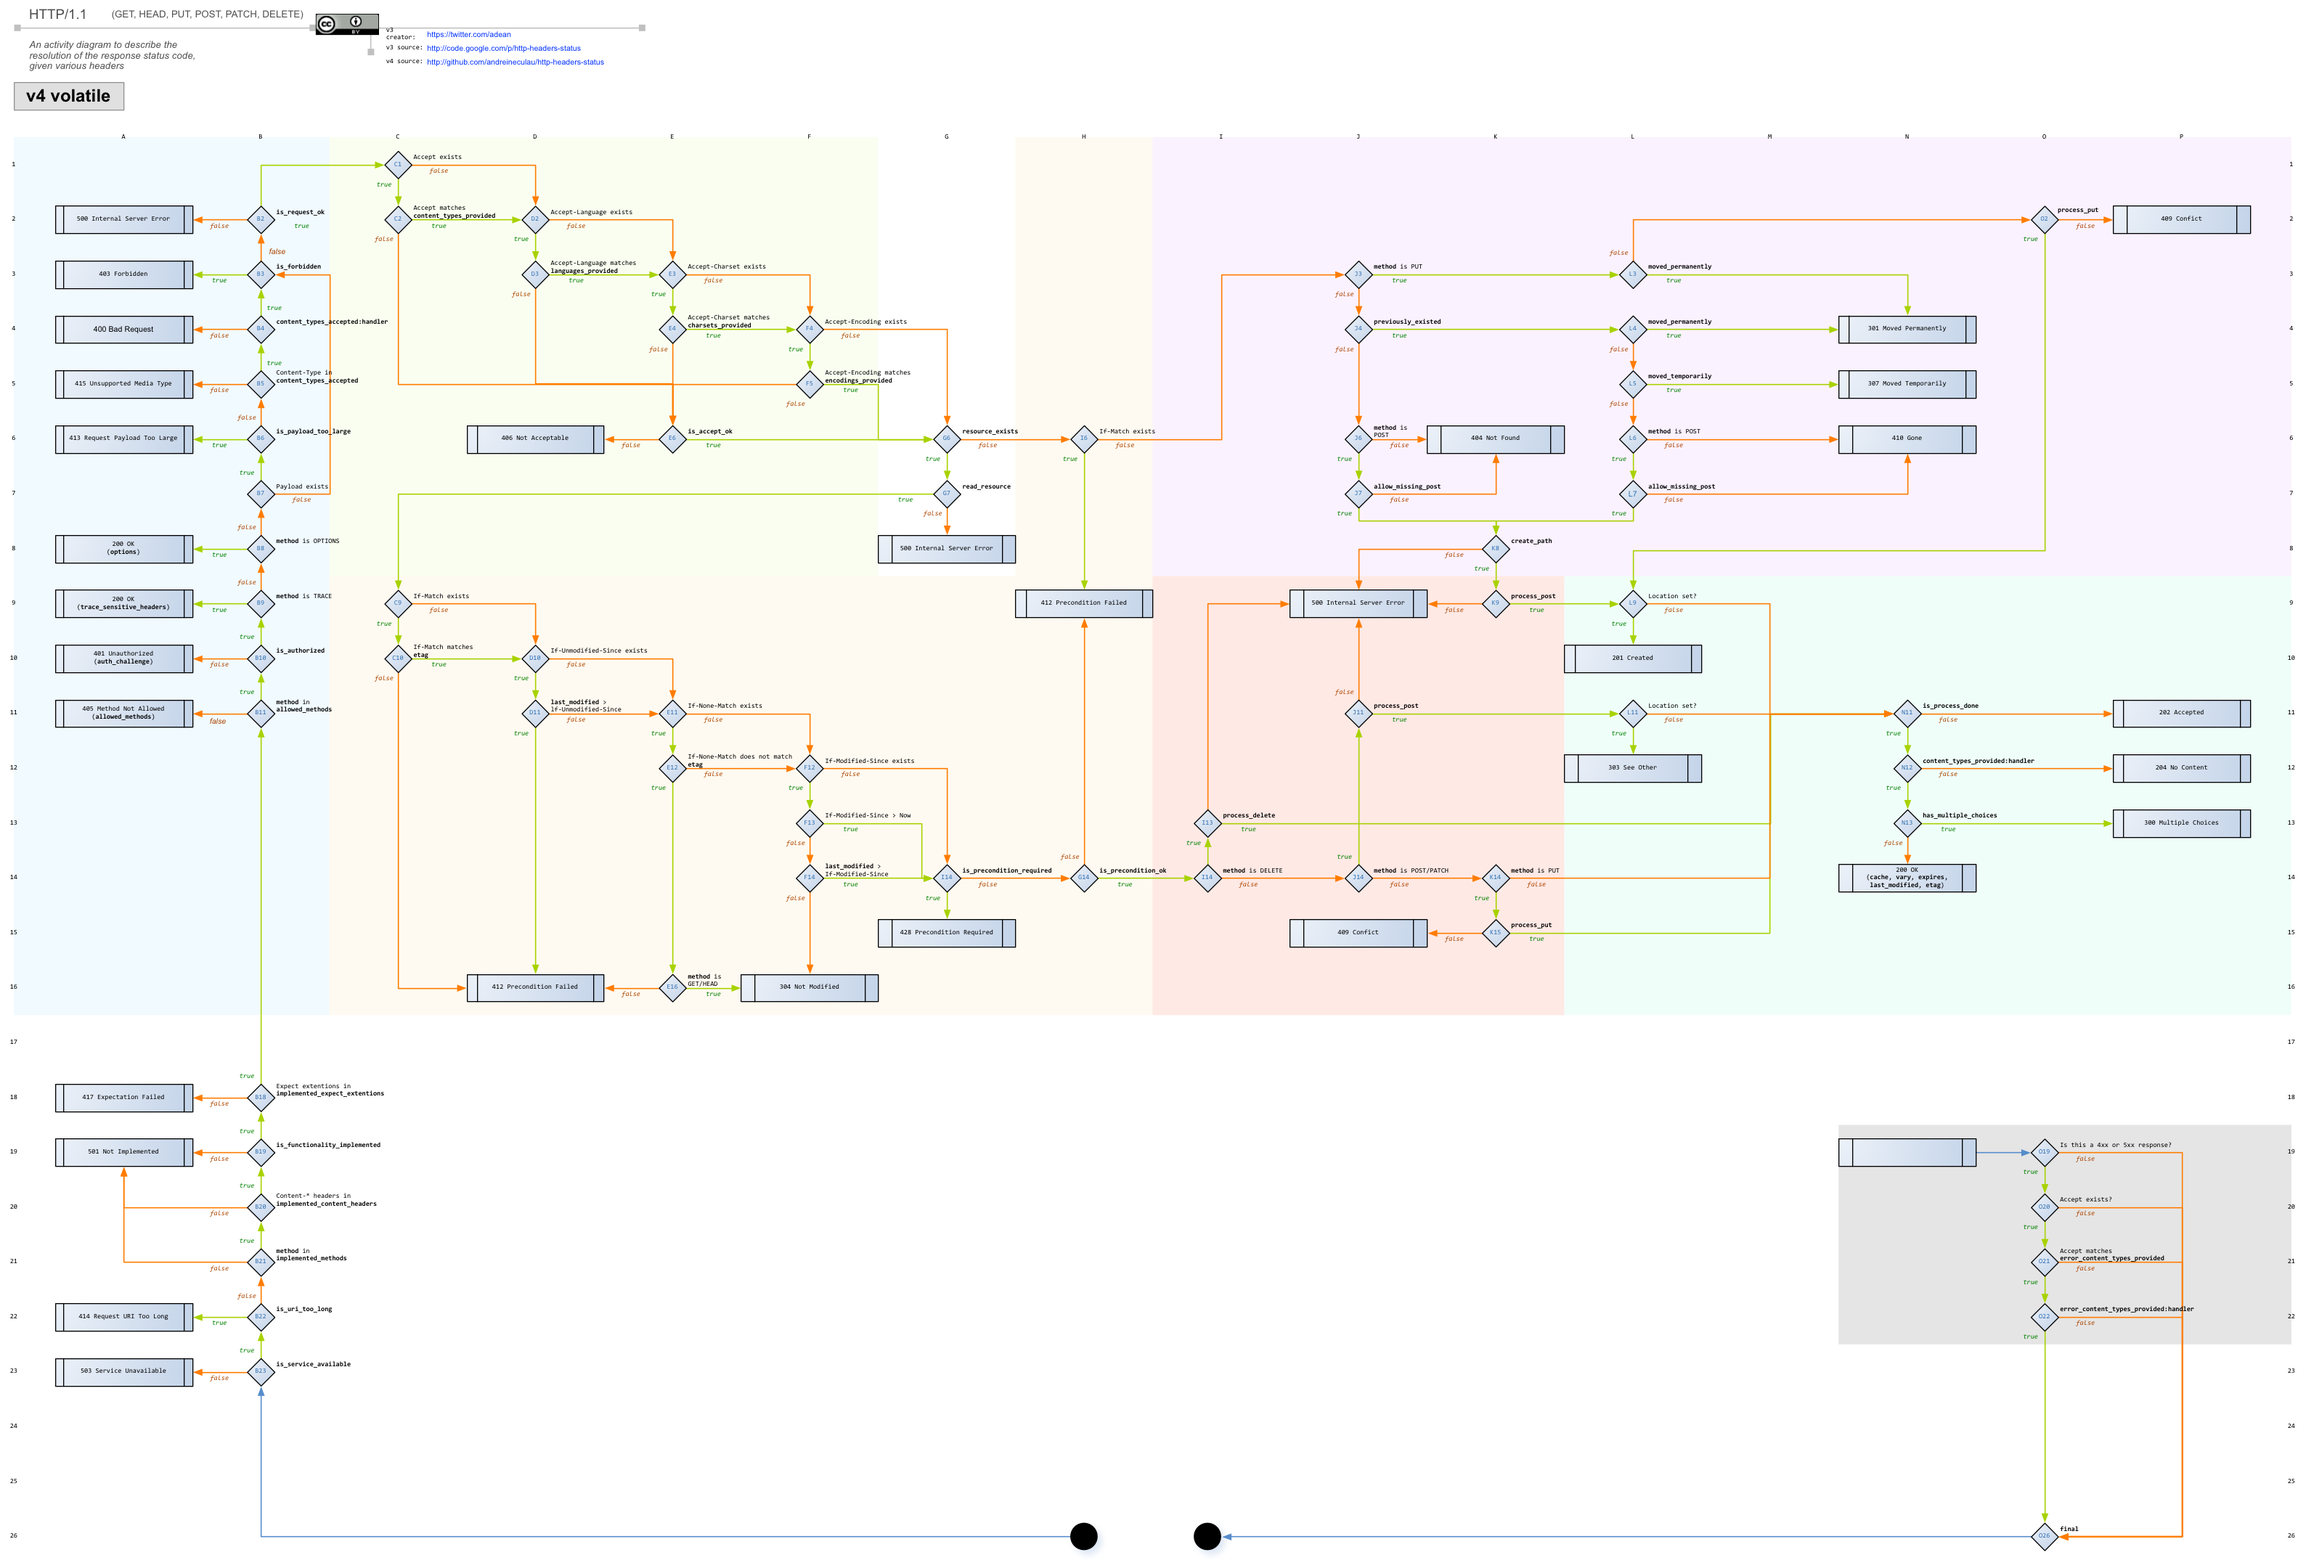
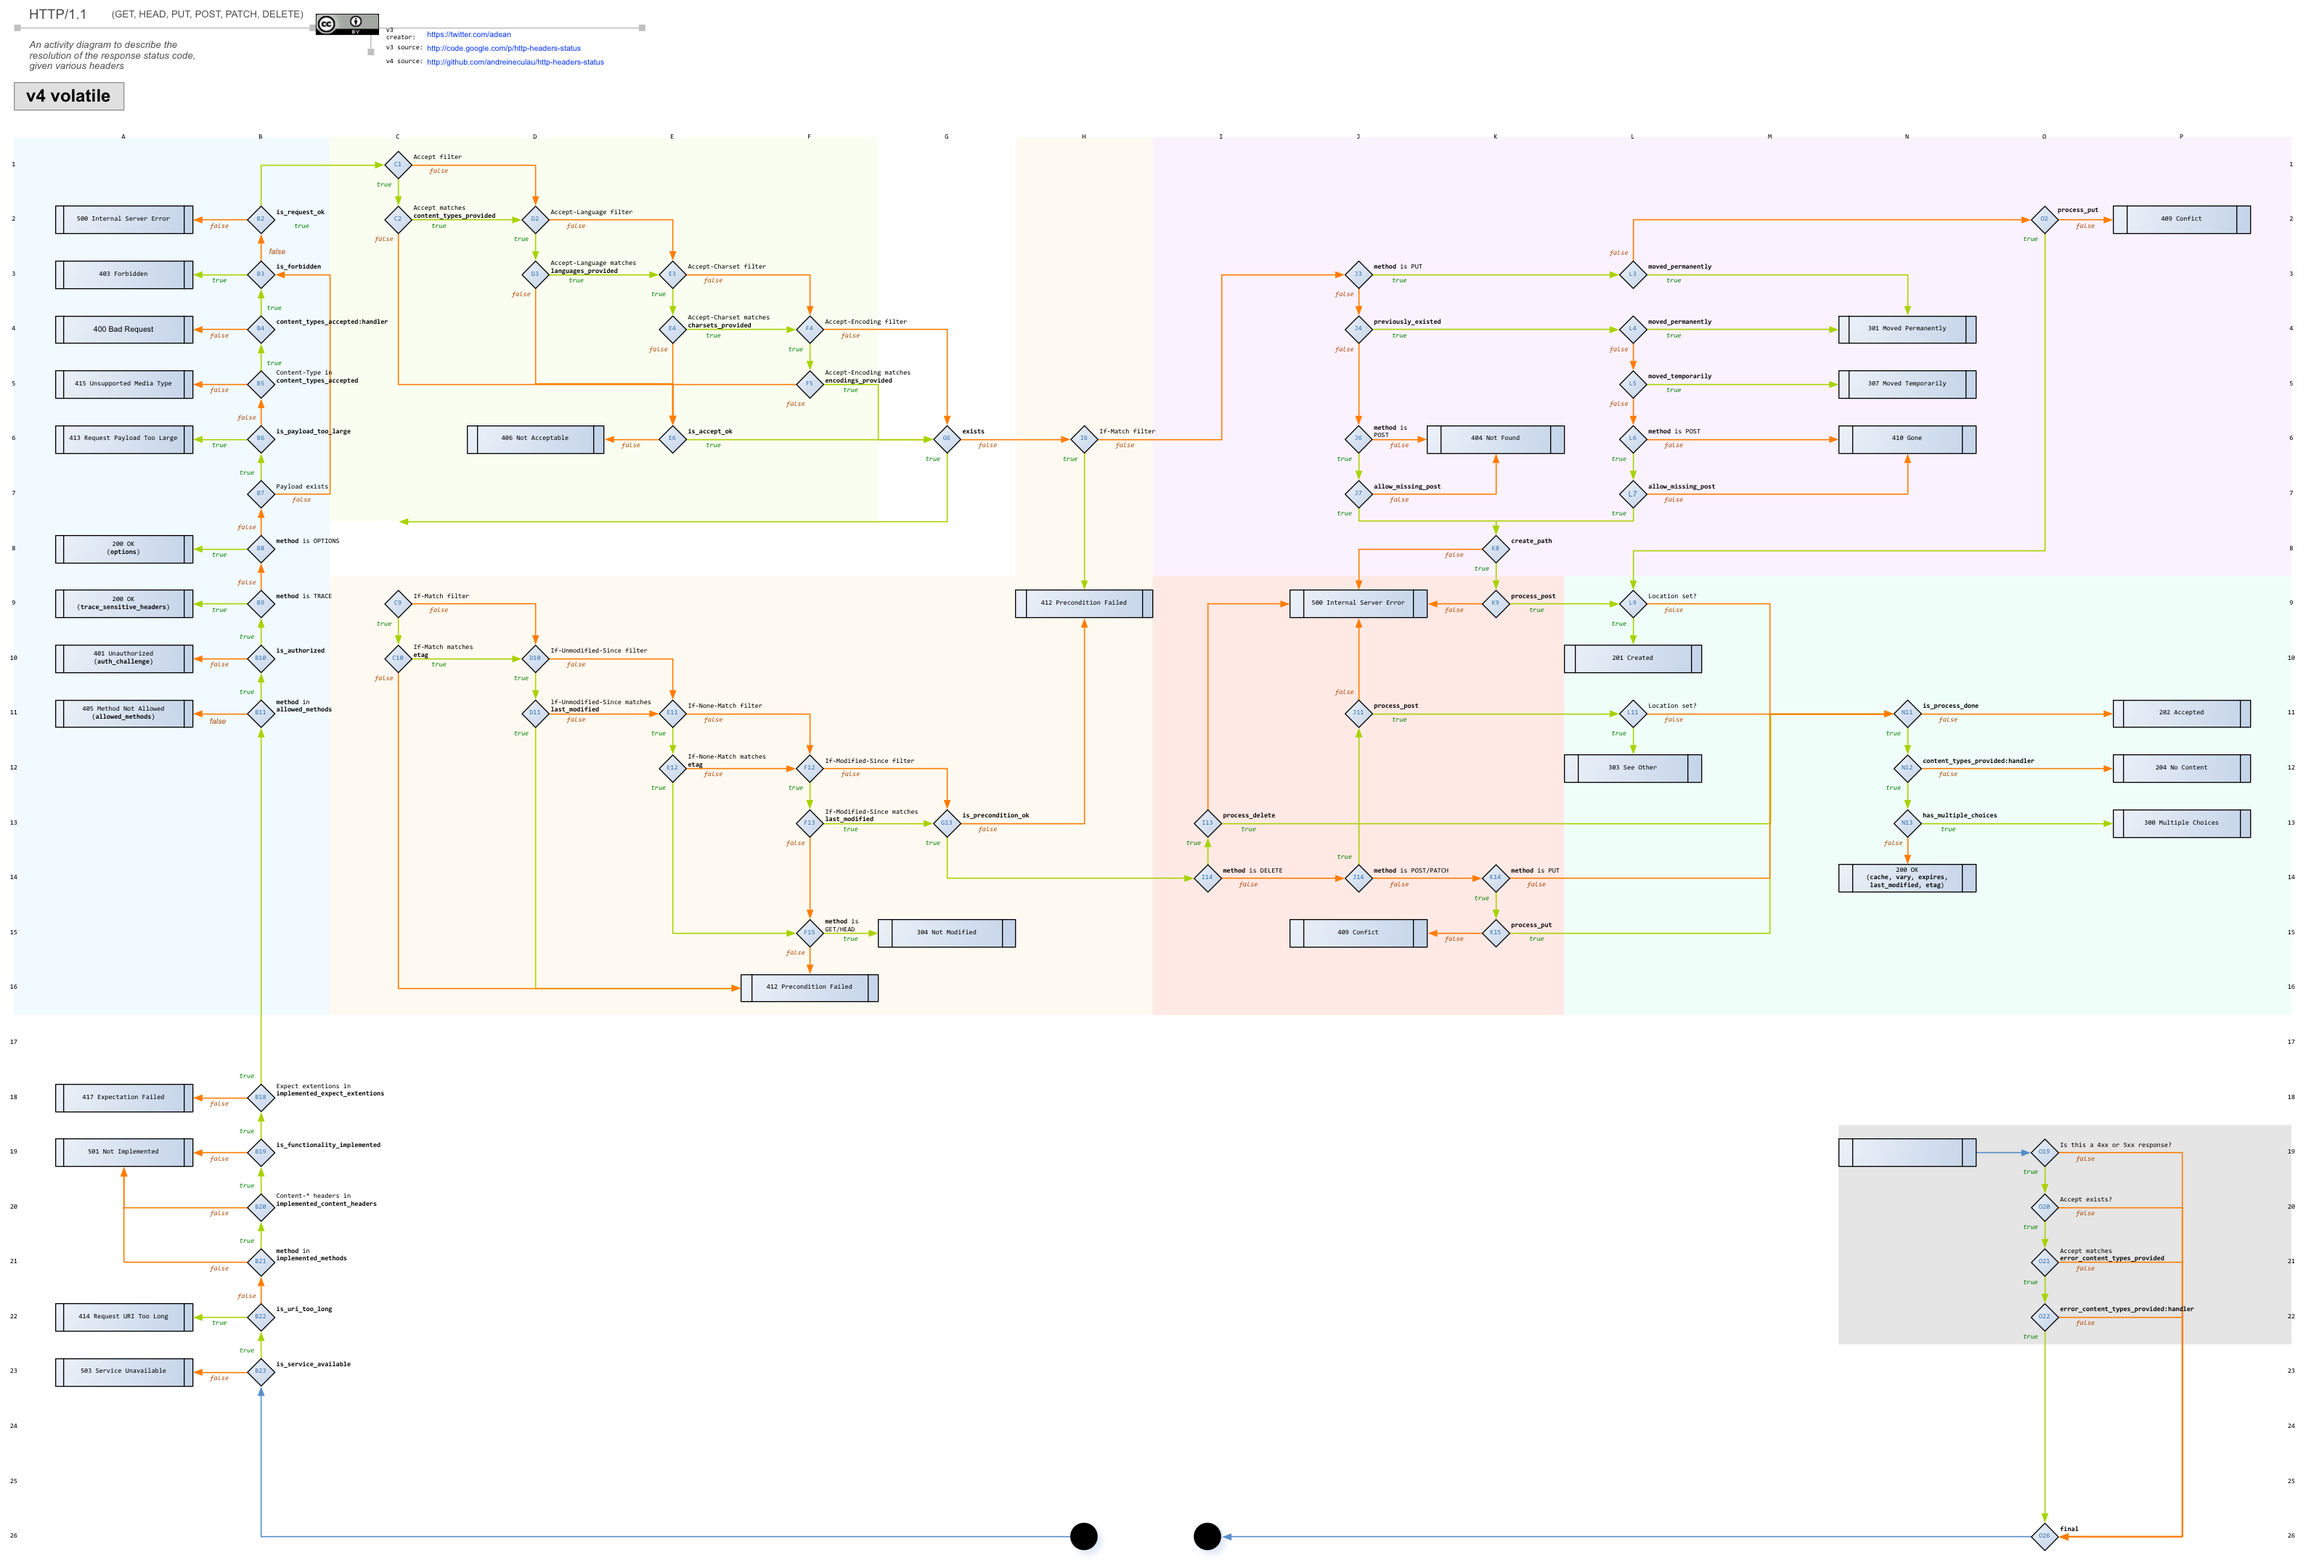
semi-document accept, retrieve, precondition

diff --git a/v4/README.md b/v4/README.md
@@ -325,27 +325,61 @@ Return TRUE if the request looks ok; return FALSE otherwise.
 
 # Accept
 
-This block is in charge of acceptability checks:
+This block is in charge of request payload acceptance checks.
 
-1. can the resource provide an acceptable content-type ?
-1. can the resource provide an acceptable language ?
-1. can the resource provide an acceptable charset ?
-1. can the resource provide an acceptable encoding ?
-1. _anything else_ ?
+ | callback | output | default
+:-- | ---: | :--- | :---
+C1 | [`accept_filter : in`](#accept_filter--in) | T / F |
+C2 | [`content_types_provided :var`](#content_types_provided-var) | { *CT*<br>: *Handler* } | { }
+ | [`accept_matches : in`](#accept_matches--in) | T / F |
+D2 | [`accept_language_filter : in`](#accept_language_filter--in) | T / F |
+D3 | [`languages_provided :var`](#languages_provided-var) | { *Lang*<br>: *Handler*<br>} | { }
+ | [`accept_language_matches : in`](#accept_language_matches--in) | T / F |
+E3 | [`accept_charset_filter : in`](#accept_charset_filter--in) | T / F |
+E4 | [`charsets_provided :var`](#charsets_provided-var) | { *Charset*<br>: *Handler*<br>} | { }
+ | [`accept_charset_matches : in`](#accept_charset_matches--in) | T / F |
+F4 | [`accept_encoding_filter : in`](#accept_encoding_filter--in) | T / F |
+F5 | [`encodings_provided :var`](#encodings_provided-var) | { *Encoding*<br>: *Handler*<br>} | { }
+ | [`accept_encoding_matches : in`](#accept_encoding_matches--in) | T / F |
+E6 | [`is_accept_ok :bin`](#is_accept_ok-bin) | T / F | TRUE
+
+
+---
+
+# Retrieve
+
+This block is in charge of retrieving the resource.
+
+ | callback | output | default
+:-- | ---: | :--- | :---
+G6 | [`exists :bin`](#exists-bin) | T / F | TRUE
+
 
 
 ---
 
 # Precondition
 
-This block is in charge of precondition checks:
+This block is in charge of precondition checks.
 
-1. does the representation ETag match ?
-1. is the representation timestamp lower ?
-1. does the representation ETag mismatch ?
-1. is the representation timestamp higher ?
-1. is precondition required ?
-1. _anything else_ ?
+ | callback | output | default
+:-- | ---: | :--- | :---
+C9 | [`if_match_filter : in`](#if_match_filter--in) | T / F |
+C10 | [`etag :var`](#etag-var) | *ETag* | ''
+ | [`if_match_matches : in`](#if_match_matches--in) | T / F
+D10 | [`if_unmodified_since_filter : in`](#if_unmodified_since_filter--in) | T / F |
+D11 | [`last_modified :var`](#last_modified-var) | *Date* | Now
+ | [`if_unmodified_since_matches : in`](#if_umodified_since_matches--in) | T / F
+E11 | [`if_none_match_filter : in`](#if_none_match_filter--in) | T / F |
+E12 | [`etag :var`](#etag-var) | *ETag* | ''
+ | [`if_none_match_matches : in`](#if_none_match_matches--in) | T / F
+F12 | [`if_modified_since_filter : in`](#if_modified_since_filter--in) | T / F |
+F13 | [`last_modified :var`](#last_modified-var) | *Date* | Now
+ | [`if_modified_since_matches : in`](#if_modified_since_matches--in) | T / F
+F15 | [`method :var`](#method-var) | *Method* | `Request.method`
+ | [`is_method_get_head : in`](#is_method_get_head--in) | T / F |
+G13 | [`is_precondition_ok :bin`](#is_precondition_ok-bin) | T / F | TRUE
+I6 | [`if_match_filter : in`](#if_match_filter--in) | T / F |
 
 
 ---
